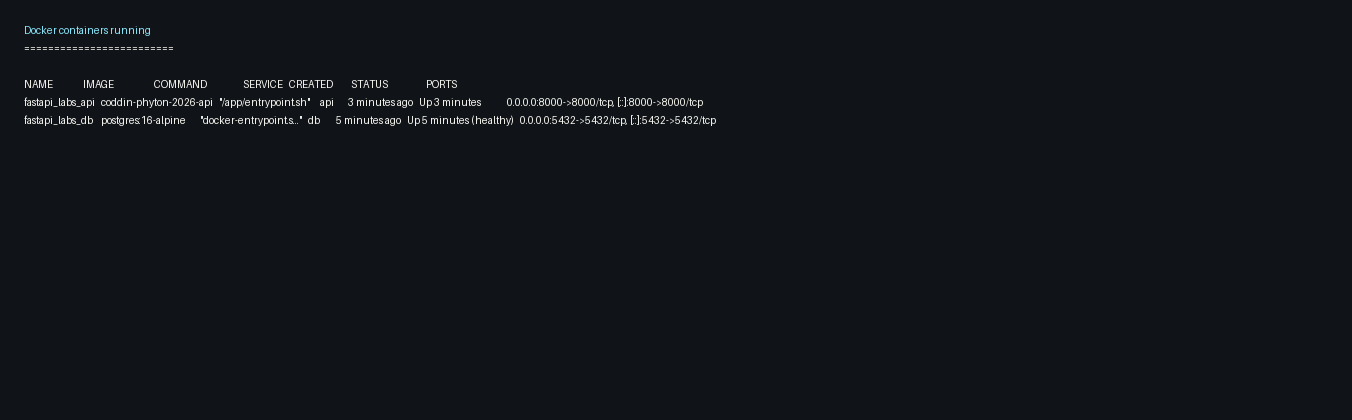
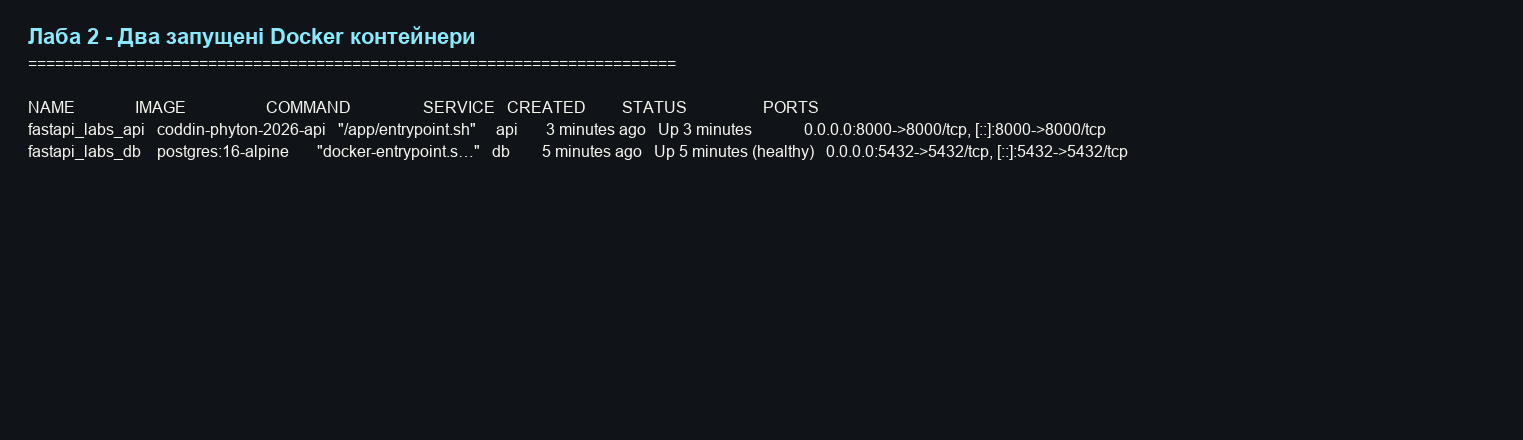
Dev evidence: label screenshots by lab

Changed region(s): [[0.0, 0.1857, 0.7456, 0.3714], [0.0, 0.0619, 0.4349, 0.1548]]

diff --git a/evidence/README.md b/evidence/README.md
@@ -2,13 +2,26 @@
 
 Ця папка навмисно є тільки в гілці `dev`.
 
-Файли містять:
+## Підписані скріни по лабораторних
 
-- `git_log.txt` і `screenshot_git_log.png` — історія Git-комітів по лабораторних.
-- `docker_containers.txt` і `screenshot_docker_containers.png` — два запущені контейнери API/PostgreSQL.
-- `container_libraries.txt` і `screenshot_container_libraries.png` — список бібліотек усередині API-контейнера через Poetry.
-- `postgres_tables.txt`, `postgres_seed_data.txt` і відповідні PNG — таблиці, поля та seed-дані PostgreSQL.
-- `api_postman_style_verification.json` і `screenshot_api_postman_style.png` — перевірка GET/POST/PUT/DELETE та JWT-auth запитів.
+| Лаба | Скрін | Що підтверджує |
+| --- | --- | --- |
+| Лаба 1 | `screenshot_git_log.png` | Git-гілки та коміти по лабораторних |
+| Лаба 2 | `screenshot_docker_containers.png` | Запущені контейнери FastAPI та PostgreSQL |
+| Лаба 2 | `screenshot_container_libraries.png` | Встановлені бібліотеки всередині API-контейнера через Poetry |
+| Лаба 3 | `screenshot_fastapi_routes_lab3.png` | CRUD-роутери FastAPI з OpenAPI |
+| Лаба 4 | `screenshot_postgres_tables.png` | Таблиці PostgreSQL після Alembic міграцій |
+| Лаба 4 | `screenshot_postgres_seed_data.png` | Дані, записані в PostgreSQL таблиці |
+| Лаба 5 | `screenshot_api_postman_style.png` | JWT login та перевірка GET/POST/PUT/DELETE запитів |
+
+## Текстові докази
+
+- `git_log.txt` — історія Git-комітів по лабораторних.
+- `docker_containers.txt` — статус Docker-контейнерів.
+- `container_libraries.txt` — список бібліотек у контейнері.
+- `fastapi_routes.txt` — список API routes з OpenAPI.
+- `postgres_tables.txt` і `postgres_seed_data.txt` — структура та seed-дані БД.
+- `api_postman_style_verification.json` — перевірка JWT та CRUD-запитів.
 - `lab_command_sequence.txt` — послідовність команд, використаних для виконання лабораторних.
 
 Swagger UI доступний після запуску: `http://localhost:8000/docs`.
